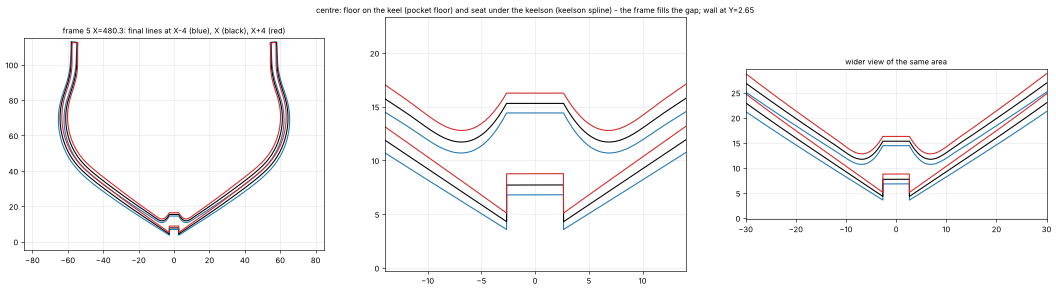
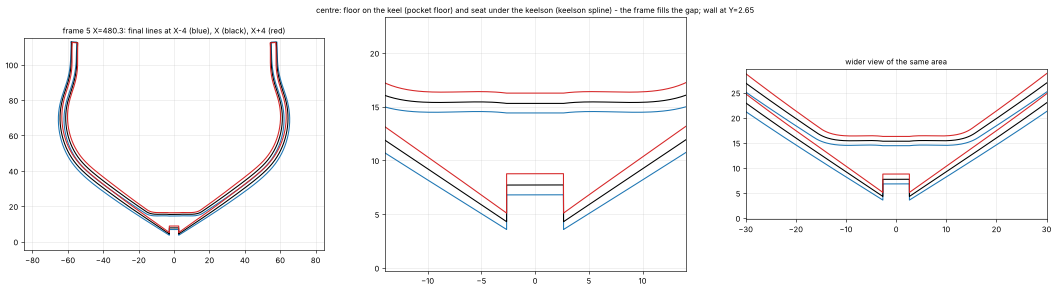
Frame 5: inner line spline tangent to the offset line, meets the seat line at a corner
Claude-Session: https://claude.ai/code/session_017HV2YHL4JdRTKuYXk76aAy

diff --git a/royal_caroline/py/frame_arm.py b/royal_caroline/py/frame_arm.py
@@ -16,9 +16,11 @@ def arm(X):
     O=np.vstack([ext,P]); hk=float(ext[0,1])
     sm=np.c_[savgol_filter(O[:,0],11,3),savgol_filter(O[:,1],11,3)]; d=np.gradient(sm,axis=0); d/=np.hypot(*d.T)[:,None]; N=np.c_[-d[:,1],d[:,0]]; I=O+N*T
     # inner line: its own spline from the end of the floor line (KB, floor) through the exact offset points further out
-    s_=np.r_[0,np.cumsum(np.hypot(*np.diff(I,axis=0).T))]; sel=[i for i in range(len(I)) if I[i,0]>=KB+6]; k0=sel[0]
-    nodes=[(KB,seat)]+[tuple(I[k0+int(np.argmin(abs(s_[k0:]-(s_[k0]+dd))))]) for dd in (0,3,6,9)]
-    tk,u=splprep(np.array(nodes).T,k=3,s=0); yy,zz=splev(np.linspace(0,1,40),tk); inner_conn=np.c_[yy,zz]
-    inner=np.vstack([inner_conn,I[k0+int(np.argmin(abs(s_[k0:]-(s_[k0]+9))))+1:]])
+    # inner line continuation: a spline from the end of the seat line (KB, seat) that joins the exact offset line TANGENTIALLY further out; the start is a corner against the horizontal line
+    cand=np.where((I[:,0]>=KB+6)&(I[:,1]>=seat+1.5))[0]
+    if len(cand)==0: raise ValueError('inner line does not rise above the seat')
+    jj=int(cand[0]); P3=I[jj]; T3=I[min(jj+3,len(I)-1)]-I[max(jj-3,0)]; T3=T3/np.hypot(*T3); P0=np.array([KB,seat]); ch=P3-P0; L=np.hypot(*ch); T0=ch/L
+    tt=np.linspace(0,1,50)[:,None]; inner_conn=(2*tt**3-3*tt**2+1)*P0+(tt**3-2*tt**2+tt)*T0*L+(-2*tt**3+3*tt**2)*P3+(tt**3-tt**2)*T3*L
+    inner=np.vstack([inner_conn,I[jj+1:]])
     poly=Polygon(np.vstack([[[0,floor],[KB,floor]],[[KB,hk]],O[len(ext):],inner[::-1],[[0,seat]]])).buffer(0)
     return poly,dict(seat=seat,floor=floor,hull_at_wall=hk,inner_at_wall_natural=float(I[0,1]),O=O,inner=inner)

diff --git a/royal_caroline/STATE.md b/royal_caroline/STATE.md
@@ -322,3 +322,5 @@ Working rules are in `royal_caroline/CLAUDE.md`; read them first.
 - 2026-11-06 builder: raise the inner horizontal line by 2 mm (no thin neck at the keel wall) and let the inner line leave the 3.2 offset to meet it. frame_arm.py RAISE=2.0. Frame 5: inner horizontal 8.79/9.70/10.75, wall 5.2-5.7 mm, inner line moves 2.5-3.1 mm. qa/frame5_one_2d.png, qa/keel_side_frame5.png.
 
 - 2026-11-06 builder: the gap between keel and keelson must be FILLED at the frame centre; upper line meets the keelson bottom line. frame_arm.py now builds floor+seat+wall; connection of the seat end to the natural inner line unresolved: variants A/B/C in qa/frame5_variants.png (py/frame_variants.py). Waiting.
+
+- 2026-11-06 inner line continuation per builder sketch: Hermite spline from the seat-line end (KB, seat) to the exact offset line, tangent to it at the join (G1), corner at the horizontal line. frame_arm.py. Frame 5: qa/frame5_one_2d.png. Waiting for approval before 1-5.
